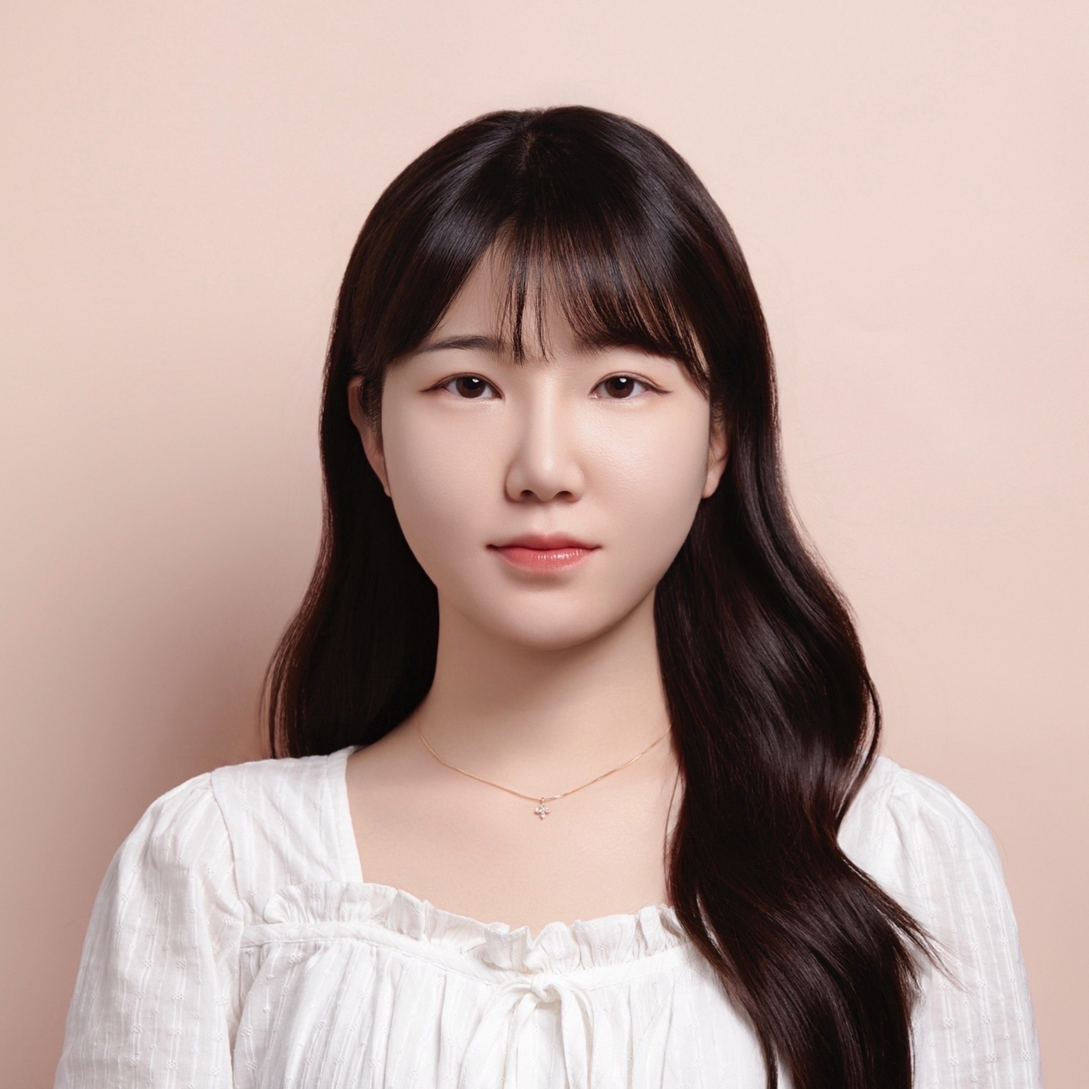
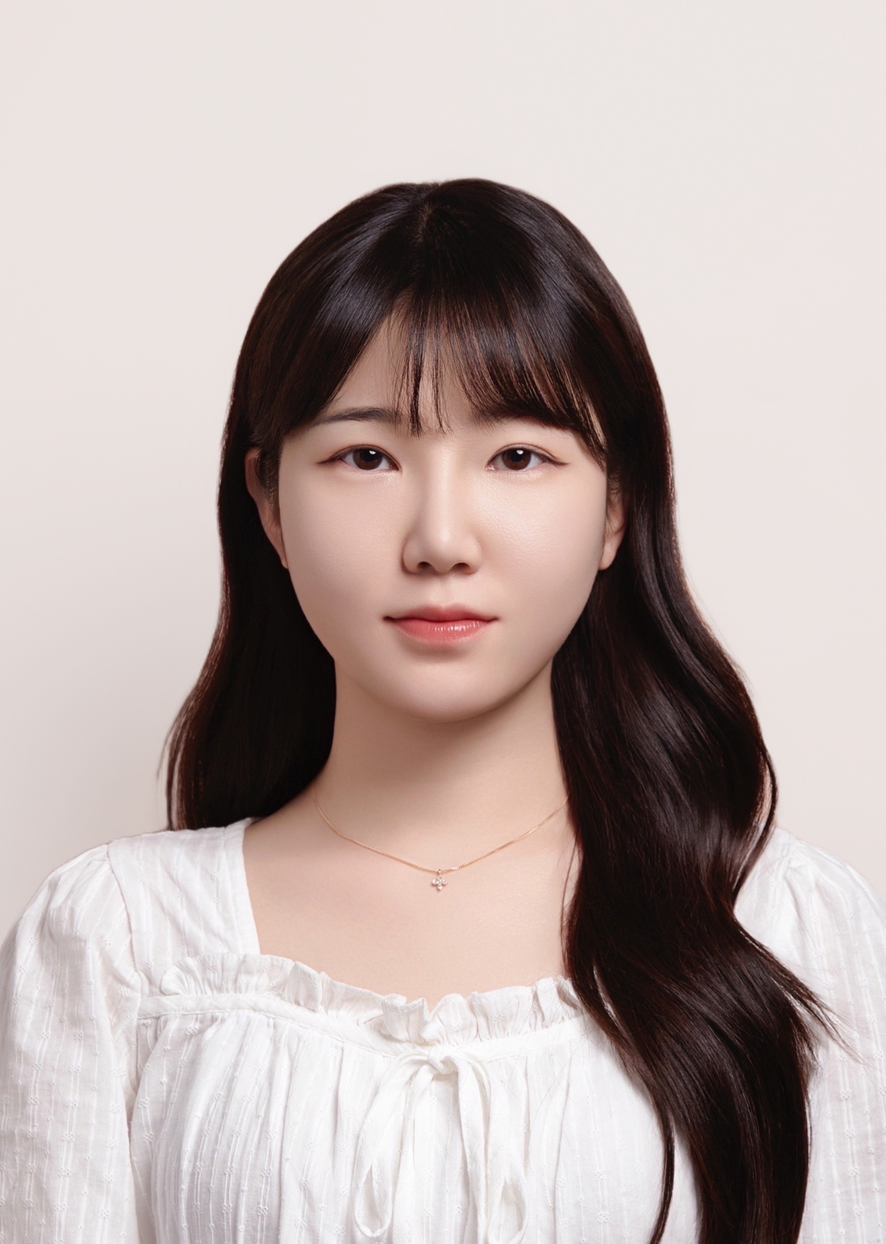
이력서 수정

diff --git a/resume/resume.html b/resume/resume.html
@@ -24,7 +24,7 @@
             <h2>심현정</h2>
             <span>반갑습니다!</span>
             <span
-              ><strong>소통</strong>과 <strong>협업</strong>을 좋아하는 개발자
+              ><strong>사용자 중심에서</strong> <strong>소통하는</strong> 개발자
               <strong>심현정</strong>입니다.</span
             >
           </div>

diff --git a/resume/resume.css b/resume/resume.css
@@ -150,9 +150,9 @@ header {
   border-bottom: 1px solid #000;
 }
 header .image {
-  border-radius: 50%;
+  border-radius: 30px;
   overflow: hidden;
-  width: 30%;
+  width: 20%;
 }
 header .head_main {
   display: flex;
